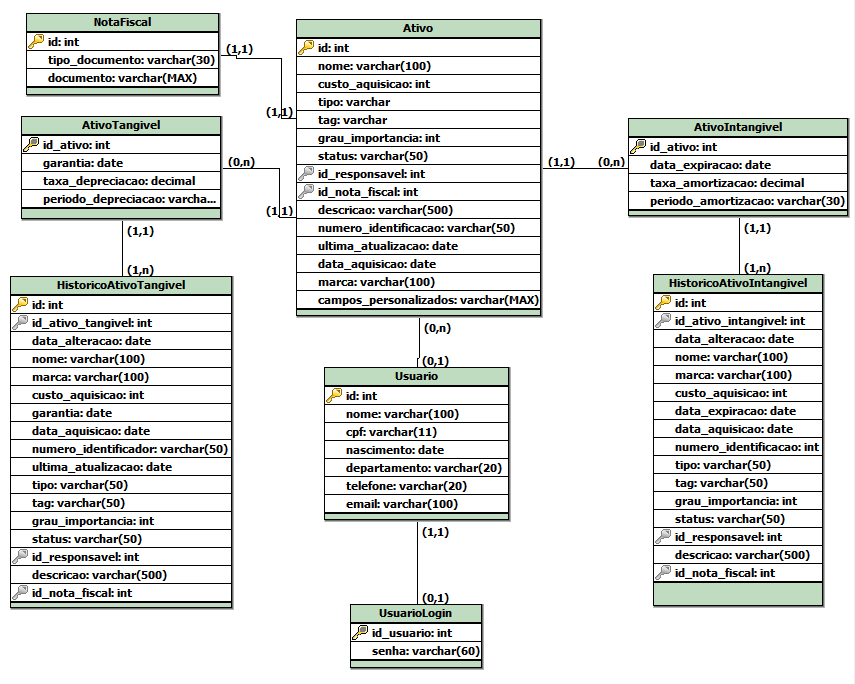
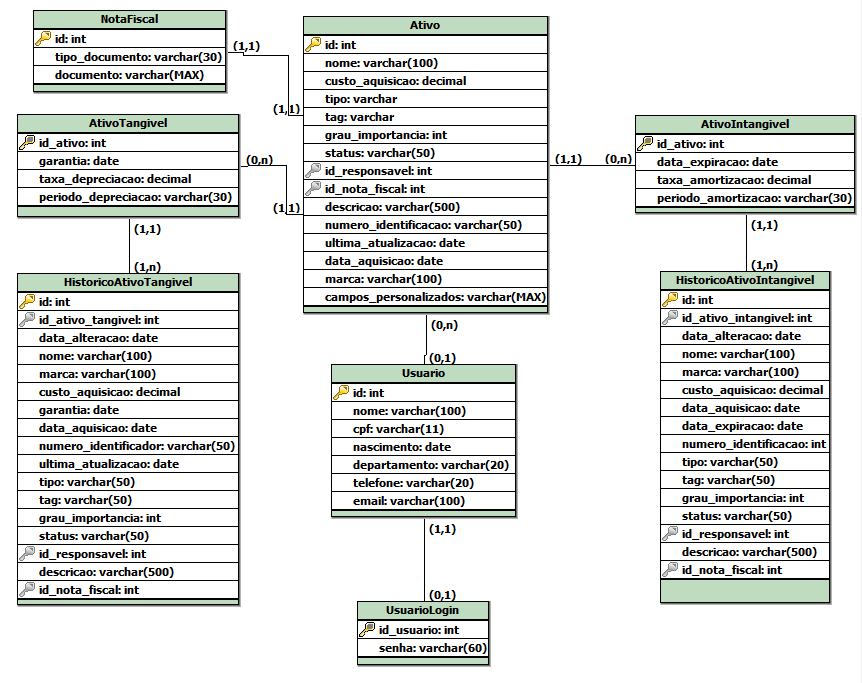
Ajustes nas colunas de valores numéricos

Changed region(s): [[0.0, 0.0, 1.0, 0.9839]]

diff --git a/README.md b/README.md
@@ -23,7 +23,7 @@ Referente ao Banco de Dados da API do terceiro semestre da FATEC
 |:-:|:-:|:-:|:-:|:-:|:-:|
 | id | INT | Default | PK, NOT NULL | IDENTITY | Número de identificação do ativo |
 | nome | VARCHAR | 100 | NOT NULL | N/A | Nome do ativo |
-| custo_aquisicao | INT | Default | N/A | N/A | Custo da aquisição do ativo |
+| custo_aquisicao | NUMERIC | (2) | N/A | N/A | Custo da aquisição do ativo |
 | tipo | VARCHAR | 20 | NOT NULL | N/A | Tipo do ativo |
 | tag | VARCHAR | 20 | NOT NULL | N/A | Tag do ativo |
 | grau_importancia | INT | Default | N/A | N/A | Grau de importância do ativo |
@@ -45,7 +45,7 @@ Referente ao Banco de Dados da API do terceiro semestre da FATEC
 |:-:|:-:|:-:|:-:|:-:|:-:|
 | id_ativo | INT | Default | PK, FK, NOT NULL | N/A | Número de identificação do ativo |
 | garantia | DATE | Default | N/A | N/A | Data de expiração da garantia do ativo |
-| taxa_depreciacao | DECIMAL | Default | N/A | N/A | Taxa de depreciação no período |
+| taxa_depreciacao | NUMERIC | (2) | N/A | N/A | Taxa de depreciação no período |
 | periodo_depreciacao | VARCHAR | 30 | N/A | N/A | Período em que ocorre a depreciação |
 
 </details>
@@ -57,10 +57,9 @@ Referente ao Banco de Dados da API do terceiro semestre da FATEC
 |:-:|:-:|:-:|:-:|:-:|:-:|
 | id_ativo | INT | Default | PK, FK, NOT NULL | N/A | Número de identificação do ativo |
 | data_expiracao | DATE | Default | N/A | N/A | Data de expiração do ativo |
-| taxa_amortizacao | DECIMAL | Default | N/A | N/A | Taxa de amortização no período |
+| taxa_amortizacao | NUMERIC | (2) | N/A | N/A | Taxa de amortização no período |
 | periodo_amortizacao | VARCHAR | 30 | N/A | N/A | Período em que ocorre a amortização |
 
-</details>
 </details>
 
 <details>
@@ -76,7 +75,6 @@ Referente ao Banco de Dados da API do terceiro semestre da FATEC
 | telefone | VARCHAR | 20 | N/A | N/A | Número de telefone do usuário |
 | email | VARCHAR | 100 | N/A | N/A | Email do usuário |
 
-</details>
 </details>
 
 <details>
